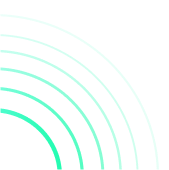
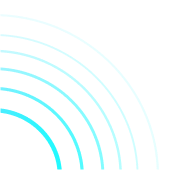
color changed to blue LFi-One

diff --git a/src/app/assets/css/app.css b/src/app/assets/css/app.css
@@ -26,7 +26,7 @@ body::-webkit-scrollbar-track {
 }
 
 body::-webkit-scrollbar-thumb {
-    background-color: #02ce83;
+    background-color: var(--primary);
     border-radius: 1px;
 }
 
@@ -80,7 +80,9 @@ h6 {
 p {
     margin: 0;
 }
-
+.mt-10{
+    margin-top: 60px;
+}
 
 .nav-link:focus,
 .nav-link:hover,
@@ -1319,7 +1321,7 @@ section.herobanner {
     line-height: 50px;
     font-weight: 700;
     margin-bottom: 0;
-    background: linear-gradient(325deg, #00FFA4 0%, #00C1FF 100%);
+    background: linear-gradient(325deg, #86f2f9 0%, #00C1FF 100%);
     -webkit-background-clip: text;
     -webkit-text-fill-color: transparent;
 }
@@ -1353,7 +1355,7 @@ section.herobanner {
 .specsSection .box3 .textWrap h2 {
     font-size: 58px;
     line-height: 70px;
-    background: linear-gradient(360deg, #00FFA4 0%, #00C1FF 100%);
+    background: linear-gradient(360deg, #86f2f9 0%, #00C1FF 100%);
     -webkit-background-clip: text;
     -webkit-text-fill-color: transparent;
 }
@@ -1406,7 +1408,7 @@ section.herobanner {
 .specsSection .box5 h4 {
     font-size: 30px;
     line-height: 36px;
-    background: linear-gradient(360deg, #00FFA4 0%, #00C1FF 100%);
+    background: linear-gradient(360deg, #86f2f9 0%, #00C1FF 100%);
     -webkit-background-clip: text;
     -webkit-text-fill-color: transparent;
 }
@@ -1528,7 +1530,7 @@ section.herobanner {
     font-size: 40px;
     line-height: 50px;
     font-weight: 600;
-    background: linear-gradient(0deg, #00FFA4 0%, #00C1FF 100%);
+    background: linear-gradient(0deg, #86f2f9 0%, #00C1FF 100%);
     -webkit-background-clip: text;
     -webkit-text-fill-color: transparent;
     list-style-type: none;
@@ -1562,7 +1564,7 @@ section.herobanner {
     font-size: 40px;
     line-height: 50px;
     font-weight: 600;
-    background: linear-gradient(0deg, #00FFA4 0%, #00C1FF 100%);
+    background: linear-gradient(0deg, #86f2f9 0%, #00C1FF 100%);
     -webkit-background-clip: text;
     -webkit-text-fill-color: transparent;
     list-style-type: none;
@@ -1588,7 +1590,7 @@ section.herobanner {
     font-size: 140px;
     line-height: 160px;
     font-weight: 700;
-    background: linear-gradient(0deg, #00FFA4 0%, #00C1FF 100%);
+    background: linear-gradient(0deg, #86f2f9 0%, #00C1FF 100%);
     -webkit-background-clip: text;
     -webkit-text-fill-color: transparent;
     list-style-type: none;
@@ -1626,7 +1628,7 @@ section.herobanner {
     font-size: 52px;
     line-height: 65px;
     font-weight: 600;
-    background: linear-gradient(0deg, #00FFA4 0%, #00C1FF 100%);
+    background: linear-gradient(0deg, #86f2f9 0%, #00b9f5 100%);
     -webkit-background-clip: text;
     -webkit-text-fill-color: transparent;
     list-style-type: none;
@@ -1692,7 +1694,7 @@ section.herobanner {
     font-size: 54px;
     line-height: 50px;
     font-weight: 600;
-    background: linear-gradient(0deg, #00FFA4 0%, #00C1FF 100%);
+    background: linear-gradient(0deg, #86f2f9 0%, #00C1FF 100%);
     -webkit-background-clip: text;
     -webkit-text-fill-color: transparent;
     list-style-type: none;

diff --git a/src/app/(pages)/minting-machine/page.tsx b/src/app/(pages)/minting-machine/page.tsx
@@ -81,7 +81,7 @@ export default function MintingMachine() {
                             {/* <video src={Videov.src} className="w-100" autoPlay loop muted>
                                
                             </video> */}
-                            {/* <div
+                            <div
                                 style={{
                                     height: "50vh",
                                     width: "100%",
@@ -104,7 +104,7 @@ export default function MintingMachine() {
                                         <Image src={Minter1000.src} alt='LFi' />
                                     </div>
                                 </motion.div>
-                            </div> */}
+                            </div>
                         </Col>
                     </Row>
                     <Row className="justify-content-center align-items-center">

diff --git a/src/app/(pages)/launchpad/page.tsx b/src/app/(pages)/launchpad/page.tsx
@@ -40,7 +40,7 @@ export default function Launchpad() {
                 <Container>
                     <Row className="justify-content-center">
                         <Col md="10" xs="12">
-                            <div className="hero text-center">
+                            <div className="hero text-center mt-10">
                                 <motion.div
                                     transition={{ ease: "easeIn", duration: 0.5 }}
                                     initial={{ opacity: 0, scale: 0.5 }}
